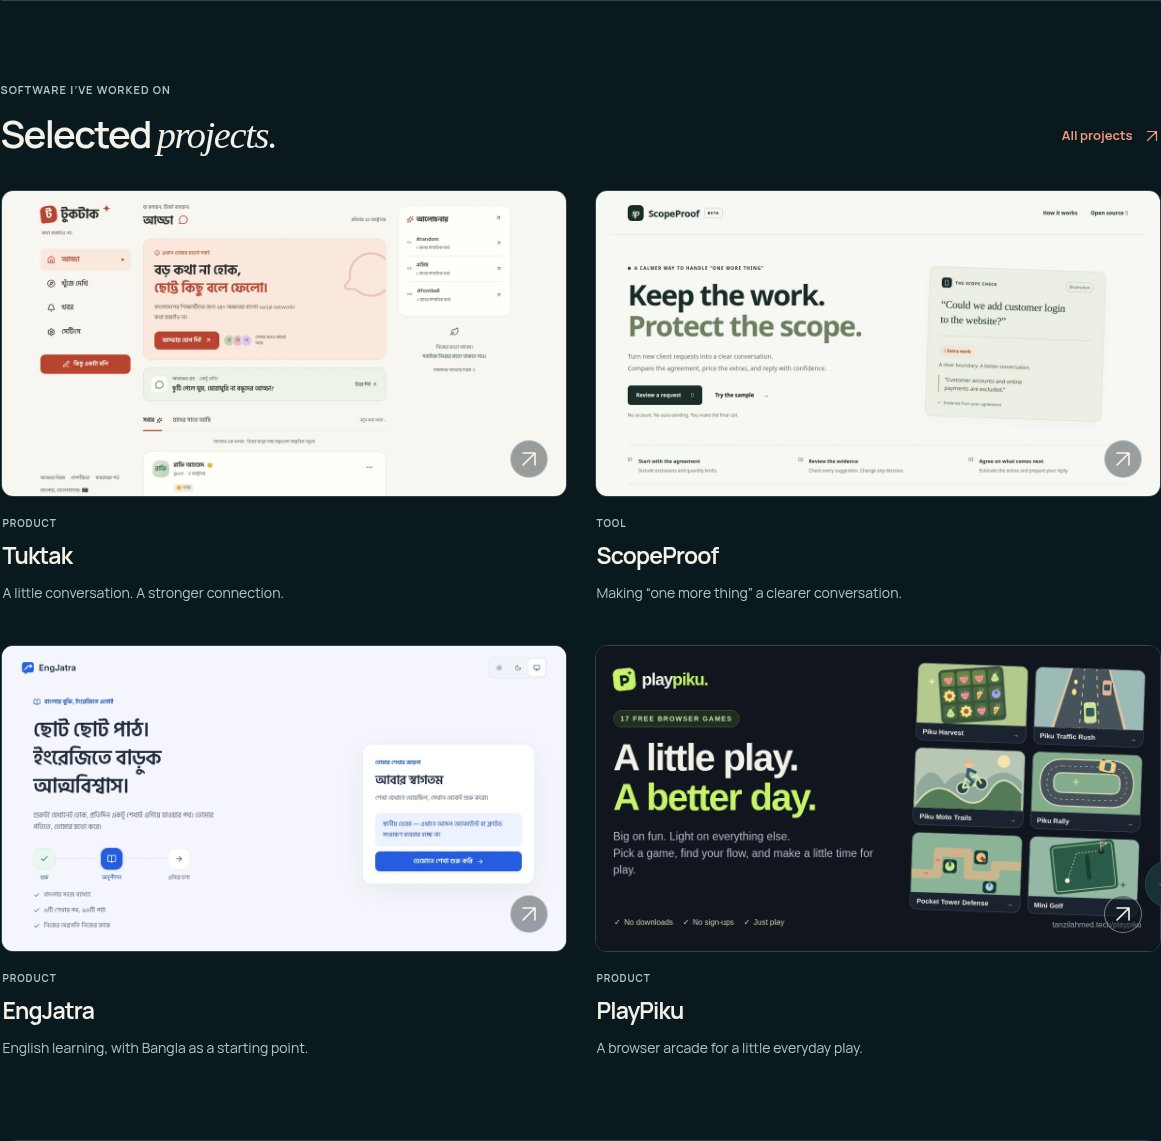
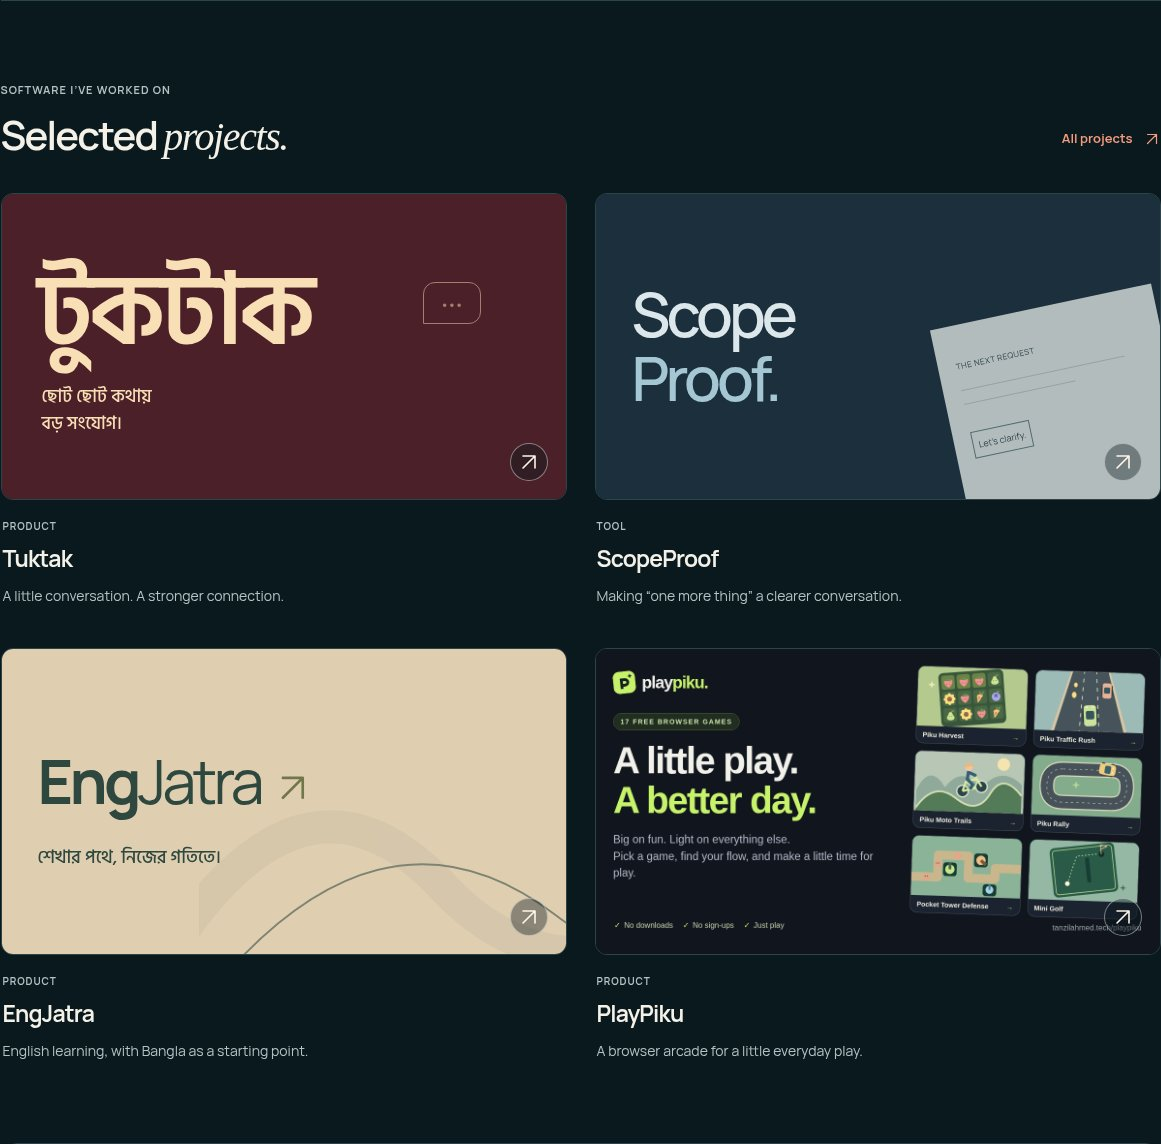
Revert "Show actual homepage previews for selected projects"
This reverts commit 1823abdc2f116258fce7225f2d421591efe80d7c.

diff --git a/tests/browser/portfolio.spec.ts b/tests/browser/portfolio.spec.ts
@@ -25,9 +25,6 @@ test('the selected-work journey preserves theme and shows the right priorities',
   await page.goto('/');
   await expect(page.locator('.featured-grid h3')).toHaveText(['Tuktak', 'ScopeProof', 'EngJatra', 'PlayPiku']);
   await expect(page.locator('.featured-grid .project-card')).toHaveCount(4);
-  await expect(page.locator('.featured-grid img')).toHaveCount(4);
-  await page.locator('.featured-grid img').evaluateAll(images => Promise.all(images.map(image => (image as HTMLImageElement).decode())));
-  expect(await page.locator('.featured-grid img').evaluateAll(images => images.every(image => (image as HTMLImageElement).naturalWidth >= 1200))).toBe(true);
   await expect(page.locator('.featured-grid')).not.toContainText('Choreseed');
   await expect(page.locator('.hero')).not.toContainText('Cargotab');
   await page.getByRole('button', { name: 'Switch to light theme' }).click();

diff --git a/src/styles/global.css b/src/styles/global.css
@@ -237,8 +237,6 @@ h2 { font-size: clamp(30px, 3vw, 40px); font-weight: 600; line-height: 1.2; lett
 .project-heading > p:not(.eyebrow) { color: var(--muted); font-size: 18px; margin-top: 20px; max-width: 740px; line-height: 1.8; }
 .case-cover { border: 1px solid var(--line); overflow: hidden; border-radius: var(--radius); }
 .case-cover .project-art { aspect-ratio: 3; padding: 56px 72px; }
-/* Screenshot covers keep the same complete preview framing as project cards. */
-.case-cover .project-art.art-with-image { aspect-ratio: 1.85; }
 .case-cover .tuktak-name { font-size: clamp(90px, 12vw, 160px); }
 .case-cover .tuktak-tagline { font-size: 25px; }
 .case-cover .conversation-bubble { width: 90px; height: 60px; right: 20%; }

diff --git a/docs/VERIFICATION.md b/docs/VERIFICATION.md
@@ -2,16 +2,7 @@
 
 Verified October 24, 2026 (UTC), on the production preview. Publication status is separate from local checks.
 
-## Current: selected-project homepage/UI previews
-
-- Tuktak, ScopeProof and EngJatra now use actual homepage/UI preview images through their existing project content fields. The same four selected projects, descriptions, bodies, links and priorities remain. PlayPiku keeps its original source image.
-- Source evidence: Tuktak commit `6b325f09afeecb4c5626d6566a0c6a9fd6eb8526` was rendered locally in its documented no-credential sample mode; EngJatra commit `70c7d99eafb010193f6c03ce0996a22cc9814eb8` was rendered in explicit local demo mode. Both screenshots waited for fonts and capture-ready content; sample/demo labels remain. ScopeProof uses its documented actual Chromium `docs/screenshots/overview.png` (blob `832b2afebcd4a3e81aee9184a4d4f5b6dc28679b`). These are source UI previews, not fresh production-service verification.
-- The three delivery images are 1200 × 650 WebP: Tuktak 37,550 bytes, ScopeProof 40,486 bytes and EngJatra 35,460 bytes (113,496 total). Images are local and lazy-loaded, with no iframe, external screenshot service or new runtime script. Original source applications were not edited or deployed; temporary capture servers were stopped. The initial temporary installs needed a scoped writable npm cache; frozen installs then passed. No root dependency/lockfile change.
-- `npm run check`, `npm run build`, all 22 rule/content/output tests and content-authoring fixtures passed. Build emits 25 HTML pages and 24 generated share PNGs plus the retained homepage image. Fixtures were removed and the original output rebuilt before browsers.
-- `npm run test:browser`: all 92 tests passed (3.6 minutes), including both themes, all 25 routes at seven widths, unchanged four-project priorities, all four preview images decoding at their expected resolution, native/no-JavaScript navigation and existing portfolio/game interactions. The image-based detail-cover ratio preserves headers/hero content without changing generated-art covers.
-- Reviewed actual desktop/mobile selected grids and image-based detail covers in both themes. Refreshed README Home/selected-project captures and thumbnail maintenance/provenance guidance. Existing profile facts, portrait, activities/captions, original essay and other project records are unchanged. Lighthouse, live application integrations and source-project full suites were not rerun; the verification scope is the portfolio.
-
-## Earlier: PlayPiku selected project
+## Current: PlayPiku selected project
 
 - Preserved the owner's direct README change by fast-forwarding to `97ebc4a` before editing. Home now contains exactly Tuktak, ScopeProof, EngJatra and PlayPiku; Choreseed remains published at `/work/choreseed/` and in the seven-project listing.
 - Reviewed the supplied public repository's README, site configuration and package file at `dececdb06b7750ce6f501be88161e4fa9b6d720c`. Project copy describes the browser arcade without asserting measured usage or a global leaderboard. Live/source destinations match the owner's supplied URLs. The existing PlayPiku share artwork was copied unchanged (137,139 bytes; source blob `969b45ddcfbf42405867b60de3d1e51295a75ebe`). No third-party project code was executed.
@@ -80,7 +71,7 @@ Accessible-name mismatches were corrected and the final Lighthouse report listed
 
 ## Publication
 
-The homepage/UI-preview revision uses the checked master workflow; consult Actions for its deployment status. The preceding PlayPiku selected-project revision deployed successfully in run [40120439799](https://github.com/tanzilamd/tanzilamd.github.io/actions/runs/40120439799) for commit `7c146f7`. The preceding Game Zone revision deployed successfully in run [40080952948](https://github.com/tanzilamd/tanzilamd.github.io/actions/runs/40080952948) for commit `2147f54`. The preceding share-preview revision deployed successfully in run [40076253711](https://github.com/tanzilamd/tanzilamd.github.io/actions/runs/40076253711) for commit `38882aa`. The preceding Completionist link-only revision deployed successfully in run [40074036093](https://github.com/tanzilamd/tanzilamd.github.io/actions/runs/40074036093) for commit `6fb7d0d`. The preceding recognition/leadership/compact-footer revision deployed successfully in run [40072917442](https://github.com/tanzilamd/tanzilamd.github.io/actions/runs/40072917442) for commit `553ff1b`. The preceding Tic-tac-toe/Stack Tower revision deployed successfully in run [40070060201](https://github.com/tanzilamd/tanzilamd.github.io/actions/runs/40070060201) for commit `18ac32c`. The preceding dedicated-game/footer/corner revision deployed successfully in run [40038361854](https://github.com/tanzilamd/tanzilamd.github.io/actions/runs/40038361854) for commit `7f15397`. The preceding Play revision deployed successfully in run [40034150096](https://github.com/tanzilamd/tanzilamd.github.io/actions/runs/40034150096) for commit `9fd6242`. The preceding equal-gallery/lightweight-scroll revision deployed successfully in run [40028927236](https://github.com/tanzilamd/tanzilamd.github.io/actions/runs/40028927236) for commit `f31d518`. The preceding motion/photo-story revision deployed successfully in run [40026600339](https://github.com/tanzilamd/tanzilamd.github.io/actions/runs/40026600339) for commit `8c70ec2`.
+The PlayPiku selected-project revision uses the checked master workflow; consult Actions for its deployment status. The preceding Game Zone revision deployed successfully in run [40080952948](https://github.com/tanzilamd/tanzilamd.github.io/actions/runs/40080952948) for commit `2147f54`. The preceding share-preview revision deployed successfully in run [40076253711](https://github.com/tanzilamd/tanzilamd.github.io/actions/runs/40076253711) for commit `38882aa`. The preceding Completionist link-only revision deployed successfully in run [40074036093](https://github.com/tanzilamd/tanzilamd.github.io/actions/runs/40074036093) for commit `6fb7d0d`. The preceding recognition/leadership/compact-footer revision deployed successfully in run [40072917442](https://github.com/tanzilamd/tanzilamd.github.io/actions/runs/40072917442) for commit `553ff1b`. The preceding Tic-tac-toe/Stack Tower revision deployed successfully in run [40070060201](https://github.com/tanzilamd/tanzilamd.github.io/actions/runs/40070060201) for commit `18ac32c`. The preceding dedicated-game/footer/corner revision deployed successfully in run [40038361854](https://github.com/tanzilamd/tanzilamd.github.io/actions/runs/40038361854) for commit `7f15397`. The preceding Play revision deployed successfully in run [40034150096](https://github.com/tanzilamd/tanzilamd.github.io/actions/runs/40034150096) for commit `9fd6242`. The preceding equal-gallery/lightweight-scroll revision deployed successfully in run [40028927236](https://github.com/tanzilamd/tanzilamd.github.io/actions/runs/40028927236) for commit `f31d518`. The preceding motion/photo-story revision deployed successfully in run [40026600339](https://github.com/tanzilamd/tanzilamd.github.io/actions/runs/40026600339) for commit `8c70ec2`.
 
 The owner’s activity-content update deployed successfully in run [40018102876](https://github.com/tanzilamd/tanzilamd.github.io/actions/runs/40018102876) for commit `6e82447`. The October 24 image optimization deployed successfully in run [40021022175](https://github.com/tanzilamd/tanzilamd.github.io/actions/runs/40021022175) for commit `85b4109`.
 

diff --git a/docs/UI-GUIDE.md b/docs/UI-GUIDE.md
@@ -100,8 +100,3 @@ Also check the following manually when relevant:
 Activity thumbnails crop to a consistent 3:2 frame; the viewer contains the whole image. Current galleries use owner-supplied WebP photographs, resized to at most 1600px wide; keep future uploads similarly optimized. Photos span the activity section below its title/description. All multi-photo galleries share equal-width, top-aligned 3:2 frames in two columns, including galleries with an odd number of photos. Captions sit below each frame; mobile presents every photo sequentially in one column. One photo has a restrained maximum width, and an empty gallery renders nothing. Array order controls photo order, with no separate layout setting to maintain. Photos have no separate gallery heading, thumbnail count or page-wide notice. Keep the small Demo label while generated placeholders remain; the viewer retains its photo counter. Replace the source, alt text and captions and set `demo: false` only for real event photos. The Home preview links to its activity section; it does not open a separate Home dialog. Native `<dialog>` makes the background inert; explicit Tab/Shift+Tab wrapping keeps keyboard focus on the viewer controls, and closing restores the triggering link. Arrow keys and previous/next controls browse the published photos; plain image links remain functional without JavaScript. Check the single-photo/empty-gallery states when changing gallery data.
 
 Automated accessibility results do not establish complete WCAG conformance. Record actual checks in `docs/VERIFICATION.md`, and keep historical Lighthouse scores explicitly separate from current results.
-
-
-## Project preview images
-
-The four selected projects use local preview images through the existing `coverImage`/`coverAlt` fields. Tuktak and EngJatra are actual Chromium captures of their unmodified source in explicit local demo mode; ScopeProof uses its documented homepage capture. Keep sample/demo labels and provenance accurate. Optimize snapshots without inventing UI. Cards and image-based detail covers share the 1.85 aspect ratio so headers and hero copy remain visible; the original generated-art covers retain their earlier responsive proportions.

diff --git a/docs/CONTENT-GUIDE.md b/docs/CONTENT-GUIDE.md
@@ -218,10 +218,3 @@ Game rules বা daily seed-এর অর্থ বদলালে `RULES_VERSI
 ### Home-এর চারটি selected project
 
 বর্তমানে Tuktak, ScopeProof, EngJatra ও PlayPiku দেখায়। PlayPiku-এর তথ্য/links/image বদলাতে শুধু `src/content/projects/playpiku.md` edit করুন। `featured: true` এবং `order: 4` এটিকে চতুর্থ card রাখে। Choreseed-এর `featured: false`; All projects ও পুরোনো `/work/choreseed/` link সচল আছে। Home সর্বোচ্চ চারটি published featured item দেখায়।
-
-
-### Project thumbnail / homepage preview বদলানো
-
-চারটি selected project-এর preview এখন image file থেকে আসে। Tuktak, ScopeProof ও EngJatra-এর optimized preview আছে `public/media/tuktak-home.webp`, `scopeproof-home.webp`, `engjatra-home.webp`-এ। PlayPiku নিজের existing artwork ব্যবহার করে।
-
-নিজের নতুন homepage screenshot upload করে সংশ্লিষ্ট `src/content/projects/<name>.md`-এর `coverImage` path ও `coverAlt` description বদলান। Home, All projects ও detail cover একই source থেকে update হবে। সম্ভব হলে 1200 × 650px-এর কাছাকাছি image দিন; font ও page পুরো load হওয়ার পর capture করুন। Preview-তে demo/sample data থাকলে সেটার label রাখুন। Live site-এর screenshot না হলে alt/description-এ local preview বলুন। `coverImage`/`coverAlt` সরালে আগের `cover` artwork আবার দেখাবে।

diff --git a/README.md b/README.md
@@ -39,7 +39,7 @@ Draft content is excluded from generated pages, RSS and sitemap. A public Git re
 
 ### Choose Home highlights
 
-- Projects: first four published `featured: true` entries, sorted by `order`. Current selection: Tuktak, ScopeProof, EngJatra and PlayPiku. Tuktak/ScopeProof/EngJatra use actual homepage/UI previews; PlayPiku keeps its own project artwork. Choreseed remains on All projects with its existing detail URL; Cargotab/Tanzilbot stay under Earlier work.
+- Projects: first four published `featured: true` entries, sorted by `order`. Current selection: Tuktak, ScopeProof, EngJatra and PlayPiku. Choreseed remains on All projects with its existing detail URL; Cargotab/Tanzilbot stay under Earlier work.
 - Contributions: up to three featured entries. A `spotlight: true` entry also receives a detailed Open source feature; Tabbycat’s published website work links to its source and upstream integration.
 - Recognition: up to four featured milestones in a two-column desktop grid. All awards and work experience appear on About; Hacktoberfest milestones also appear under Open source. Optional local badge artwork and proof-image links come from the same milestone file. Current highlights include YCPC Grand Finale 2k25 (3rd place) and Hacktoberfest 2026 Completionist. The Completionist entry uses the same text-only layout as other recognition, with a single **View badge** proof link.
 - Activities: featured entries appear on Home; all published activities appear under Activities. Edit one activity’s summary once to update both views.

diff --git a/docs/RELEASE-NOTES.md b/docs/RELEASE-NOTES.md
@@ -4,12 +4,6 @@
 
 Responsive dark/light portfolio; new owner-supplied portrait; four selected projects and two earlier-work stories; eleven selected open-source records; About, Activities, Writing, Contact and 404; content templates; sitemap/metadata; self-hosted fonts; optimized images; GitHub Pages workflow; build, authoring, privacy/link and browser/accessibility checks.
 
-## October 24 selected-project homepage previews
-
-- Replaced the Tuktak, ScopeProof and EngJatra generated thumbnail artwork with optimized actual UI/homepage previews; kept PlayPiku’s own preview and the same four selected projects.
-- Reused each project’s image fields across Home, All projects and its detail page. Image-based detail covers now preserve the same complete framing as the cards; other generated artwork keeps its previous layout.
-- Retained sample/demo labels and source provenance, updated the maintenance guide and README captures, and extended the existing project journey to check all four images decode.
-
 ## October 24 PlayPiku selected project
 
 - Replaced Choreseed in the four Home highlights with PlayPiku, using one project record, the supplied live/source links and its existing project artwork. Added the PlayPiku detail page and automatic share preview.

diff --git a/docs/CREDITS.md b/docs/CREDITS.md
@@ -12,6 +12,3 @@
 - PlayPiku cover: the project’s existing public share artwork from `tanzilamd/playpiku`, copied unchanged for its portfolio entry.
 - Built with Astro and TypeScript. Development of this portfolio was assisted by OpenAI Codex under Tanzil Ahmed’s direction.
 - Tabbycat and other external projects retain their upstream authorship and licenses; original project/contribution links identify their sources.
-
-- Tuktak and EngJatra homepage/UI previews: actual local Chromium captures of their public source, with the applications’ demo/sample labels retained. No production accounts or personal records were captured.
-- ScopeProof homepage preview: its existing `docs/screenshots/overview.png` actual local browser capture, cropped to the homepage introduction and optimized for delivery.

diff --git a/src/content/projects/scopeproof.md b/src/content/projects/scopeproof.md
@@ -28,9 +28,7 @@
       "url": "https://dev.to/tanzil_ahmed_e6a826eee8c4/scopeproof-an-evidence-first-answer-to-one-more-thing-3odi"
     }
   ],
-  "note": "AI suggestions support a human decision. They are not legal advice or an automatic invoice.",
-  "coverImage": "/media/scopeproof-home.webp",
-  "coverAlt": "ScopeProof’s homepage, with its scope-review introduction and example illustration."
+  "note": "AI suggestions support a human decision. They are not legal advice or an automatic invoice."
 }
 ---
 

diff --git a/src/content/projects/tuktak.md b/src/content/projects/tuktak.md
@@ -23,9 +23,7 @@
       "label": "Source on GitHub",
       "url": "https://github.com/tanzilamd/tuktak"
     }
-  ],
-  "coverImage": "/media/tuktak-home.webp",
-  "coverAlt": "Local preview of Tuktak’s guest homepage, with its labelled sample feed."
+  ]
 }
 ---
 

diff --git a/src/content/projects/engjatra.md b/src/content/projects/engjatra.md
@@ -19,9 +19,7 @@
       "label": "Explore the source",
       "url": "https://github.com/tanzilamd/EngJatra"
     }
-  ],
-  "coverImage": "/media/engjatra-home.webp",
-  "coverAlt": "Local demo preview of EngJatra’s Bangla welcome page."
+  ]
 }
 ---
 
